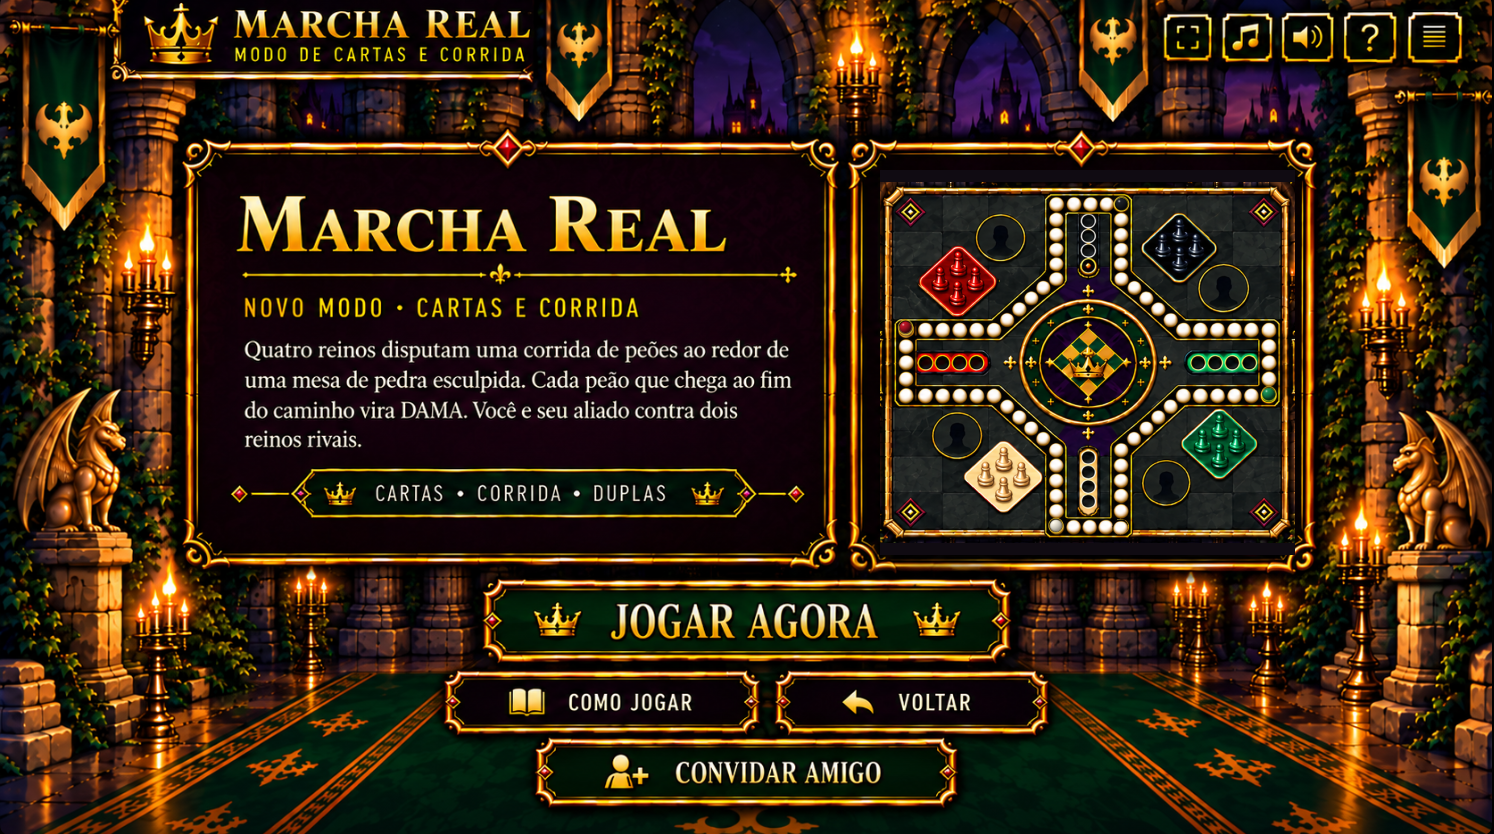
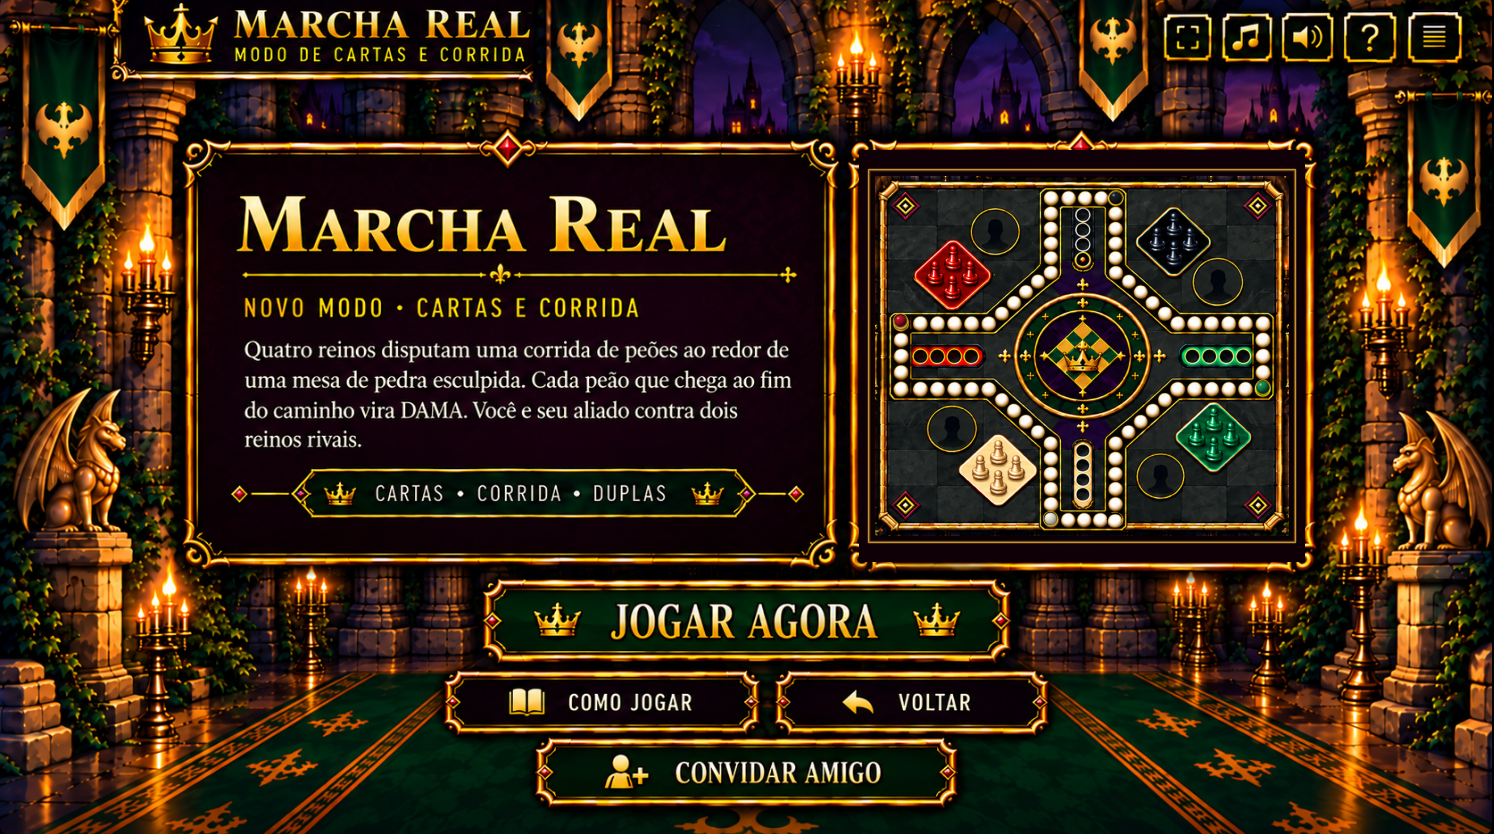
R57.1 · Marcha (PC, antes da partida): tabuleiro aprovado encaixado sem faixas
O tabuleiro da tela de partida (mesmos pixels, sem distorcer) fica centrado na
moldura original do painel direito, sobre o mesmo vinho-escuro do painel da
esquerda, com sombra suave e um filete dourado em volta (passe-partout): sem
barras aparentes. Só a arte do salão muda; as outras 3 telas ficam iguais.

Claude-Session: https://claude.ai/code/session_016vKvXoMfUjcNC2AWvYdkWV

Changed region(s): [[0.5542, 0.1559, 0.8929, 0.6859]]

diff --git a/tools/visual_final_r57.py b/tools/visual_final_r57.py
@@ -385,20 +385,49 @@ def marcha_plate():
 
 
 # ------------------------------------------------------------------ MARCHA REAL · antes da partida (referência 4)
+LOBBY_INNER = (859, 150, 1305, 562)   # vão interno da moldura do painel direito (dentro do filete dourado)
+LOBBY_PAD_X = 16                       # folga escura dos lados (na referência: ~26 px dos lados, ~28 em cima/embaixo)
+
+
+def lobby_frame_fit(a, b):
+    """Tabuleiro aprovado (sem distorcer) dentro da moldura original do painel: o vão inteiro fica com a cor
+    escura do próprio painel e o tabuleiro centrado, com folga dos 4 lados como na referência — sem faixas."""
+    a = a.copy()
+    ix0, iy0, ix1, iy1 = LOBBY_INNER
+    # fundo do vão = o mesmo vinho-escuro do painel da esquerda, com luz suave no centro
+    yy, xx = np.mgrid[iy0:iy1, ix0:ix1].astype(np.float32)
+    cx, cy = (ix0 + ix1) / 2.0, (iy0 + iy1) / 2.0
+    r = np.sqrt(((xx - cx) / ((ix1 - ix0) / 2.0)) ** 2 + ((yy - cy) / ((iy1 - iy0) / 2.0)) ** 2)
+    base = np.array([16, 1, 8], np.float32)
+    lit = np.array([34, 10, 26], np.float32)
+    a[iy0:iy1, ix0:ix1] = (base + (lit - base) * np.clip(1.0 - r, 0, 1)[..., None]).astype(np.uint8)
+    bx0, by0, bx1, by1 = BOARD_CROP
+    board = b[by0:by1, bx0:bx1]
+    w = ix1 - ix0 - 2 * LOBBY_PAD_X
+    h = int(round(board.shape[0] * w / board.shape[1]))
+    small = cv2.resize(board, (w, h), interpolation=cv2.INTER_AREA)
+    tx = ix0 + LOBBY_PAD_X
+    ty = iy0 + (iy1 - iy0 - h) // 2
+    # sombra suave do tabuleiro sobre o fundo do painel (assenta, em vez de parecer recortado)
+    sh = np.zeros(a.shape[:2], np.float32)
+    sh[ty + 3:ty + h + 5, tx + 2:tx + w + 4] = 1.0
+    sh = cv2.GaussianBlur(sh, (0, 0), 5.0)[..., None] * 0.55
+    a = (a.astype(np.float32) * (1 - sh)).astype(np.uint8)
+    a[ty:ty + h, tx:tx + w] = small
+    # filete dourado fino em volta (passe-partout), como os filetes do painel da esquerda
+    g = 6
+    cv2.rectangle(a, (tx - g, ty - g), (tx + w + g - 1, ty + h + g - 1), (96, 62, 18), 1, cv2.LINE_AA)
+    cv2.rectangle(a, (tx - g - 1, ty - g - 1), (tx + w + g, ty + h + g), (214, 160, 52), 1, cv2.LINE_AA)
+    print("salão: tabuleiro %dx%d em (%d,%d); folgas lados %d, cima %d, baixo %d" % (w, h, tx, ty, LOBBY_PAD_X, ty - iy0, iy1 - ty - h))
+    return a
+
+
 def marcha_lobby():
     a = load("marcha_lobby.png")
     # o tabuleiro do painel da direita é o MESMO tabuleiro aprovado da partida (referência 3, cores certas),
-    # com os peões nos Pátios — encaixado na moldura do painel
+    # sem distorcer, centrado na moldura original com folga escura dos 4 lados (como a referência).
     b = fix_board(load("marcha_partida.png"))
-    x0, y0, x1, y1 = BOARD_CROP
-    board = b[y0:y1, x0:x1]
-    ix0, iy0, ix1, iy1 = 880, 170, 1295, 555
-    w = ix1 - ix0
-    h = int(round(board.shape[0] * w / board.shape[1]))
-    small = cv2.resize(board, (w, h), interpolation=cv2.INTER_AREA)
-    a[iy0:iy1, ix0:ix1] = np.array([16, 11, 18], np.uint8)
-    ty = iy0 + (iy1 - iy0 - h) // 2
-    a[ty:ty + h, ix0:ix1] = small
+    a = lobby_frame_fit(a, b)
     save(a, "marcha/art/r57/salao.png")
     # face do JOGAR AGORA sem texto (para "CONHECER CLUB FRAIHA" quando não há acesso)
     m = text_mask(a, (520, 592, 975, 650), "light")
